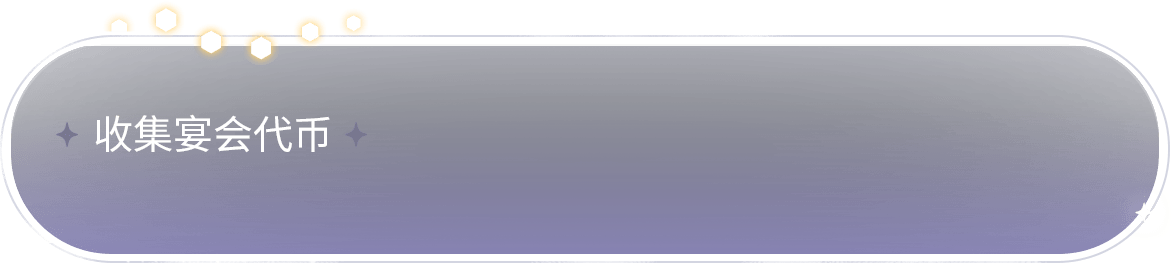
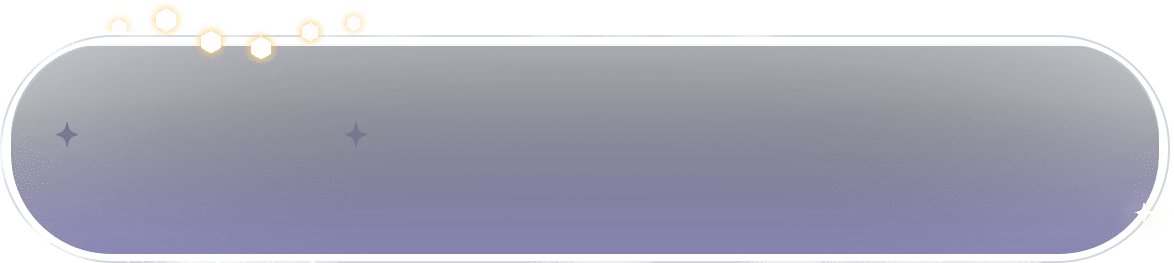
fix #66401 【双旦活动中心】任务2收集代币的任务描述为宴会节代币，本次活动代币交"雪花代币"需要修改

Changed region(s): [[0.0613, 0.4259, 0.276, 0.5779]]

diff --git a/src/views/Doubledan2024_2/Doubledan2024_2.vue b/src/views/Doubledan2024_2/Doubledan2024_2.vue
@@ -72,13 +72,16 @@
                 </p>
               </li>
             </ul>
-            <!-- 收集宴会节代币 -->
-            <h2 id="accTaskListHeading" class="sr-only">收集宴会节代币</h2>
+            <!-- 收集雪花代币 -->
+            <h2 id="accTaskListHeading" class="sr-only">收集雪花代币</h2>
             <div class="acc-task-container">
-              <div class="acc-task-title text-[#f9ff92]">
-                （{{ rewardTokenCoin.currentCount }}/{{
-                  rewardTokenCoin.targetCount
-                }}）
+              <div class="acc-task-title">
+                <p class="text-[40px] text-[#fff]">收集雪花代币</p>
+                <span class="text-[#f9ff92]">
+                  （{{ rewardTokenCoin.currentCount }}/{{
+                    rewardTokenCoin.targetCount
+                  }}）
+                </span>
               </div>
               <ul class="ml-[364px] flex" aria-labelledby="accTaskListHeading">
                 <li
@@ -134,7 +137,7 @@
                   <span class="text-[#ffcb4d]">漂浮魔法*1</span>
                 </li>
                 <li>
-                  活动期间，累计收集宴会节代币达到指定数量，即可领取
+                  活动期间，累计收集雪花代币达到指定数量，即可领取
                   <span class="text-[#ffcb4d]"
                     >传信纸船*1，彩虹尾迹*1，爱心*1</span
                   >
@@ -673,9 +676,10 @@ watchEffect(() => {
 }
 .acc-task-title {
   position: absolute;
-  left: 140px;
-  bottom: 60px;
+  left: 90px;
+  bottom: 50px;
   font-size: 32px;
+  text-align: center;
 }
 
 .acc-task-item {
